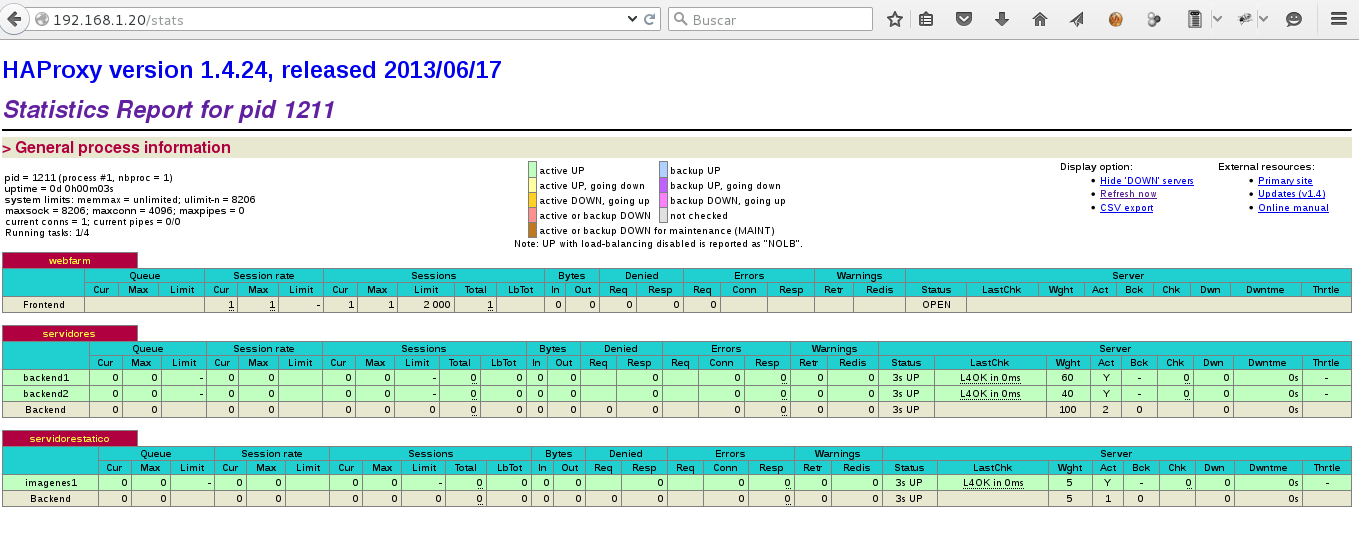
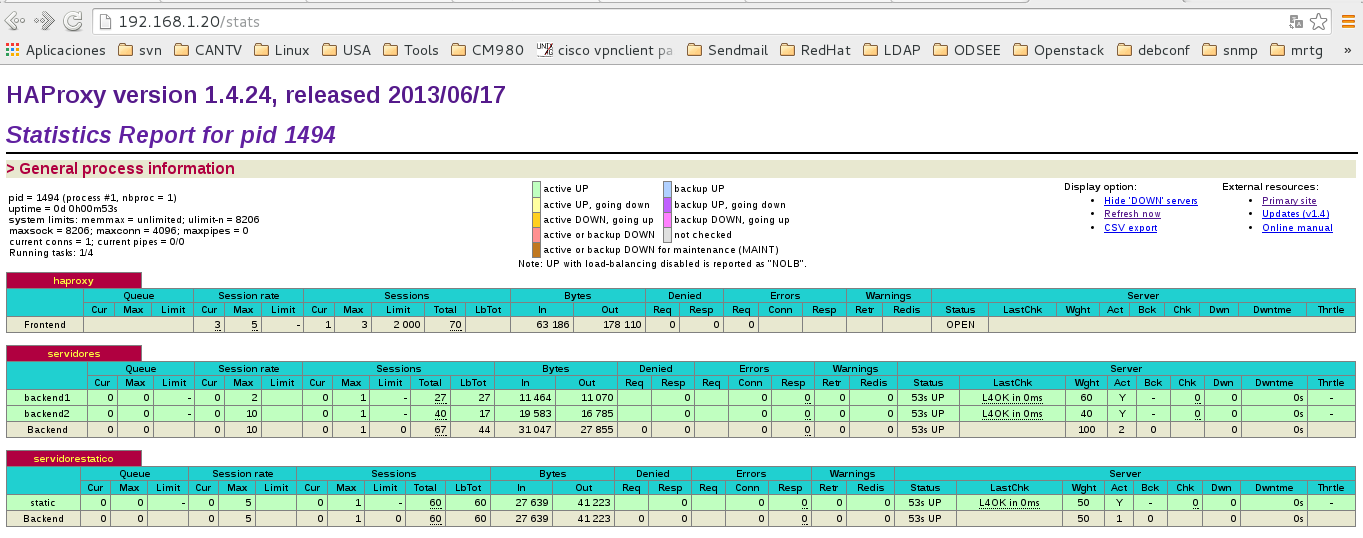
Actualizar

diff --git a/README.md b/README.md
@@ -2,9 +2,9 @@
 
 HAProxy es una solución gratuita , muy rápido y fiable que ofrece alta disponibilidad , balanceo de carga y el proxy para TCP y aplicaciones basadas en HTTP. Es especialmente adecuado para los sitios web de muy alto tráfico y las más visitadas del mundo. Con los años se ha convertido en el software balanceador de carga favorito de las distribuciones GNU/Linux, ahora se incluye con la mayoría de las distribuciones de Linux y con frecuencia se despliega por defecto en plataformas en la nube. HAProxy no se hace publicidad, sólo se sabe cuando los administradores informan de ella :-)
 
-### Principales características
+#### Principales características
 
-Cada versión trae su conjunto de características nuevas más las caracteristicas anteriores. La compatibilidad es un aspecto muy importante de HAProxy, incluso la ultima versión estable (1.5) es capaz de funcionar con configuraciones hechas para la versión 1.0 hace de 13 años. Las características más diferenciadoras de cada versión se enumeran a continuación:
+Cada versión trae su conjunto de características nuevas más las características anteriores. La compatibilidad es un aspecto muy importante de HAProxy, incluso la ultima versión estable (1.5) es capaz de funcionar con configuraciones hechas para la versión 1.0 hace de 13 años. Las características más diferenciadoras de cada versión se enumeran a continuación:
 
 - **versión 1.5**, lanzado en el 2014, esta versión amplía aún más la 1.4 con 4 años de duro trabajo: soporte SSL nativa en ambos lados con SNI/NPN/ALPN y OCSP, IPv6 y UNIX sockets están soportados, HTTP completa keep-alive para un mejor apoyo de NTLM y la mejora de la eficiencia en las granjas estáticas, HTTP/1.1 compression (deflate, gzip) para ahorrar ancho de banda, PROXY protocol versión 1 y 2 en ambos lados, data sampling sobre todo en la petición o respuesta, incluyendo la carga útil, las ACL pueden utilizar cualquier método de emparejamiento con cualquier mapas de muestra de entrada y ACL dinámico, actualizables con la ayuda del CLI stick-tables para realizar un seguimiento de la actividad en cualquier formato personalizado muestra de entrada para los registros de identificador único, cabecera de reescritura y redirecciones, mejora de controles de salud (SSL, script TCP, agentes de prueba, ... ), mucho más escalable la configuración, es compatible con cientos de miles de backends y certificados sin sudar.
 - **versión 1.4**, lanzado en 2010, esta versión trae nuevas características sobre la 1.3, fueron muy esperados: Client-side keep-alive para reducir el tiempo de cargar las páginas pesadas para los clientes sobre la red, TCP speedups para ayudar al stack de TCP ahorrar unos cuantos paquetes por conexión, response buffering para un número aún menor de conexiones simultáneas en los servidores, soporte para el protocolo RDP con la rigidez del servidor y el filtrado de usuario, source-based stickiness para adjuntar una dirección de origen a un servidor, un medio mucho mejor las estadísticas interfaz de informes de toneladas de información útil, controles de salud más detallados informes ed estados precisas y respuestas en las estadísticas y de los registros, la salud provocada por el tráfico de ayunar-falla un servidor por encima de un umbral de error determinado, soporte para la autenticación HTTP para cualquier solicitud incluyendo las estadísticas, con el apoyo de cifrado de la contraseña, gestión de servidor desde la línea de comandos para activar / desactivar y cambiar el peso de un servidor sin necesidad de reiniciar la persistencia haproxy, basada en ACL para mantener o desactivar la persistencia basada en ACL, sin tener en cuenta el estado del servidor, ingrese analizador para generar informes rápidos de los registros analizados en 1 Gbyte / s,
@@ -33,13 +33,13 @@ Si [HAProxy](http://www.haproxy.org/ "http://www.haproxy.org/") detecta la caíd
 
 Con [HAProxy](http://www.haproxy.org/ "http://www.haproxy.org/") vamos a  distribuir las peticiones de los clientes de forma equitativa entre distintos servidores de "backend" (termino muy utilizado por HAProxy). Un   servidor backend: puede ser servidor web, que reciba las solicitudes del frontend (termino muy utilizado por HAProxy). Un frontend se le llama al [HAProxy](http://www.haproxy.org/ "http://www.haproxy.org/") que atendera las solicitudes de los clientes y se las envia a los backends.
 
-Con [HAProxy](http://www.haproxy.org/ "http://www.haproxy.org/") puede detectar la carga de los backends y distribuir las peticiones de forma equitativa para evitar sobrecarga. Tambien nosotros le podemos indicar cual sera el porcetange de carga para los backends.Este mecanismo tambien se utiliza para identificar si un backend esta fuera de servicio y de esta forma no se le envia peticiones.
+Con [HAProxy](http://www.haproxy.org/ "http://www.haproxy.org/") puede detectar la carga de los backends y distribuir las peticiones de forma equitativa para evitar sobrecarga. También nosotros le podemos indicar cual sera el porcentaje de carga para los backends. Este mecanismo también se utiliza para identificar si un backend esta fuera de servicio y de esta forma no se le envía peticiones.
 
-Una forma de balancear carga de forma muy simple y economica es Roundrobin por DNS, pero esto no esta bien cuando se tiene altas cargas de peticiones y se requiere una minima perdida de peticiones, es decir, un balanceador puede tener en cuenta la carga de cada backend y distribuir las peticiones según la carga que tenga el backend, mientras que al Roundrobin por DNS no tiene en cuenta la carga de los backends y por lo tanto se envian paquetes que comienzan a producir time outs y lentitud. Además, si un backend queda inoperativo el Roundrobin por DNS no sera capaz de identificar esto y se produciran nuevamente perdidad de paquetes time outs y lentitud.
+Una forma de balancear carga de forma muy simple y económica es Roundrobin por DNS, pero esto no esta bien cuando se tiene altas cargas de peticiones y se requiere una mínima perdida de peticiones, es decir, un balanceador puede tener en cuenta la carga de cada backend y distribuir las peticiones según la carga que tenga el backend, mientras que al Roundrobin por DNS no tiene en cuenta la carga de los backends y por lo tanto se envían paquetes que comienzan a producir time outs y lentitud. Además, si un backend queda inoperativo el Roundrobin por DNS no sera capaz de identificar esto y se producirán nuevamente perdida de paquetes time outs y lentitud.
 
 Algo que gusta mucho de [HAProxy](http://www.haproxy.org/ "http://www.haproxy.org/"), pueden mantener las sesiones de los usuarios, de forma que un usuario que inicia sesión en un backend "A" siempre sea dirigido por el [HAProxy](http://www.haproxy.org/ "http://www.haproxy.org/") al mismo backend "A". El Roundrobin por DNS no es capaz de mantener sesiones, por lo que siempre el  usuario pierde la sesión.
 
-En este laboratorio solo vamos a instalar un solo frontend [HAProxy](http://www.haproxy.org/ "http://www.haproxy.org/"), que haga balanceo de carga y distribuya las solicitudes de HTTP hacia dos backends, que verifique si alguno de los backends esta inoperativo y que por supuesto puede identificar las sesiones de los usuarios y sean redireccionados nuevamente al backend que le esta atendiendo dicha sesion.
+En este laboratorio solo vamos a instalar un solo frontend [HAProxy](http://www.haproxy.org/ "http://www.haproxy.org/"), que haga balanceo de carga y distribuya las solicitudes de HTTP hacia dos backends, que verifique si alguno de los backends esta inoperativo y que por supuesto puede identificar las sesiones de los usuarios y sean redireccionados nuevamente al backend que le esta atendiendo dicha sesión.
 
 ![Texto alternativo](images/topologia.png "Topología de la red de pruebas")
 
@@ -49,16 +49,16 @@ En resumen esto es lo que vamos a tener con [HAProxy](http://www.haproxy.org/ "h
 - Identificación sesiones, para conservar las sesiones.
 - Algoritmos de balanceo, para elegir entre balance Roundrobin, por peso, por origen, etc.
 - Escalabilidad, para que sea fácil adicionar más backend.
-- ACLs por tipo de contenido, nombre de dominio, etc., para ﬁltrar contenido, o dirigir las peticiones por contenido estático a un servidor en particular, etc.
+- ACLs por tipo de contenido, nombre de dominio, etc., para filtrar contenido, o dirigir las peticiones por contenido estático a un servidor en particular, etc.
  
-## Como estara configurado el laboratorio
+## Como estará configurado el laboratorio
 
-192.168.1.20 -- Ubuntu 14.04.4, haproxy -- HAProxy 1.4
-192.168.1.21 -- Ubuntu 14.04.4, backend1 -- apache2, php5
-192.168.1.22 -- Ubuntu 14.04.4, backend2 -- apache2, php5
-192.168.1.23 -- Ubuntu 14.04.4, backend3 -- apache2, php5
+- 192.168.1.20 -- Ubuntu 14.04.4, haproxy -- HAProxy 1.4
+- 192.168.1.21 -- Ubuntu 14.04.4, backend1 -- apache2, php5
+- 192.168.1.22 -- Ubuntu 14.04.4, backend2 -- apache2, php5
+- 192.168.1.23 -- Ubuntu 14.04.4, backend3 -- apache2
 
-**Configuración del servidor HAProxy**
+#### Configuración del servidor HAProxy
 
 Configuremos la interfaz de red (Importante que este como adaptador puente)
 ```
@@ -128,7 +128,7 @@ Editamos el archivo de configuración
 		stats enable
 		stats uri /stats
 		stats realm HAProxy\ Statistics
-		stats auth admin:Venezuela21  #Coloca aqui el usuario y clave que quieras
+		stats auth admin:Venezuela21  #Coloca aquí el usuario y clave que quieras
 
 	frontend haproxy
 		bind 192.168.1.20:80
@@ -147,12 +147,12 @@ Editamos el archivo de configuración
 		server backend1 192.168.1.21:80 weight 60 cookie A check source 192.168.1.20 inter 10000
 		server backend2 192.168.1.22:80 weight 45 cookie B check source 192.168.1.20 inter 10000
 
-	backend imagenes
+	backend servidorestaticos
 		balance roundrobin
 		option httpclose
 		option forwardfor
 		# option httpchk HEAD /index.php HTTP/1.0
-		server servidorestatico 192.168.1.23:80 weight 50 check source 192.168.1.20 inter 10000
+		server static 192.168.1.23:80 weight 50 check source 192.168.1.20 inter 10000
 
 ```
 
@@ -165,7 +165,7 @@ Vamos al navegador de nuestro HOST y colocamos "192.168.1.20/stats" coloca el us
 
 ![Texto alternativo](images/Selección_001.png "haproxy stats")
 
-**Configuración del servidor backend1**
+####  Configuración del servidor backend1
 
 Configuremos la interfaz de red (Importante que este como adaptador puente)
 ```
@@ -199,10 +199,10 @@ Luego procedemos a instalar los paquetes requeridos
 
 Vamos al navegador de nuestro HOST y colocamos "192.168.1.21" ya sabes que debe ver el "work ...!!!"
 
-![Texto alternativo](images/Selección_001.png "haproxy stats")
+![Texto alternativo](images/apache.png "haproxy stats")
 
 
-**Configuración del servidor backend2**
+#### Configuración del servidor backend2
 
 Configuremos la interfaz de red (Importante que este como adaptador puente)
 ```
@@ -236,7 +236,7 @@ Luego procedemos a instalar los paquetes requeridos
 
 Vamos al navegador de nuestro HOST y colocamos "192.168.1.22" ya sabes que debe ver el "work ...!!!"
 
-**Configuración del servidor backend3**
+#### Configuración del servidor backend3
 
 Configuremos la interfaz de red (Importante que este como adaptador puente)
 ```
@@ -270,10 +270,12 @@ Luego procedemos a instalar los paquetes requeridos
 
 Vamos al navegador de nuestro HOST y colocamos "192.168.1.22" ya sabes que debe ver el "work ...!!!"
 
-**Pruebas de balanceo y failover**
+![Texto alternativo](images/apache.png "haproxy stats")
+
+#### Pruebas de balanceo y failover
 
 Probemos el balanceo
-En los servidores backend1 y backend2 vamos a crear el siguiete script PHP.
+En los servidores backend1 y backend2 vamos a crear el siguiente script PHP.
 ```
 	# vi /var/www/html/prueba.php
 
@@ -286,32 +288,32 @@ En los servidores backend1 y backend2 vamos a crear el siguiete script PHP.
 ```
 
 Ahora desde nuestro HOST vamos a utilizar al comando ``curl`` apuntando hacia el servidor haproxy y este debe balancear hacia los servidores backends y con la ayuda del script PHP iremos identificando y analizando. lo ejecutamos varias veces.
-Tambien desde nuestro HOST en un navegador se puede colocar http://192.168.1.20/prueba.php y se pulsa F5 varias veces
+También desde nuestro HOST en un navegador se puede colocar http://192.168.1.20/prueba.php y se pulsa F5 varias veces
 ```
-# curl http://192.168.1.20/prueba.php
-Server IP: 192.168.1.21
-Client IP: 192.168.1.20
-X-Forwarded-for: 192.168.1.46
+	# curl http://192.168.1.20/prueba.php
+	Server IP: 192.168.1.21
+	Client IP: 192.168.1.20
+	X-Forwarded-for: 192.168.1.46
 
-# curl http://192.168.1.20/prueba.php
-Server IP: 192.168.1.22
-Client IP: 192.168.1.20
-X-Forwarded-for: 192.168.1.46
+	# curl http://192.168.1.20/prueba.php
+	Server IP: 192.168.1.22
+	Client IP: 192.168.1.20
+	X-Forwarded-for: 192.168.1.46
 
-# curl http://192.168.1.20/prueba.php
-Server IP: 192.168.1.21
-Client IP: 192.168.1.20
-X-Forwarded-for: 192.168.1.46
+	# curl http://192.168.1.20/prueba.php
+	Server IP: 192.168.1.21
+	Client IP: 192.168.1.20
+	X-Forwarded-for: 192.168.1.46
 
-# curl http://192.168.1.20/prueba.php
-Server IP: 192.168.1.21
-Client IP: 192.168.1.20
-X-Forwarded-for: 192.168.1.46
+	# curl http://192.168.1.20/prueba.php
+	Server IP: 192.168.1.21
+	Client IP: 192.168.1.20
+	X-Forwarded-for: 192.168.1.46
 
-# curl http://192.168.1.20/prueba.php
-Server IP: 192.168.1.22
-Client IP: 192.168.1.20
-X-Forwarded-for: 192.168.1.46
+	# curl http://192.168.1.20/prueba.php
+	Server IP: 192.168.1.22
+	Client IP: 192.168.1.20
+	X-Forwarded-for: 192.168.1.46
 
 ```
 
@@ -325,29 +327,29 @@ En el backend1 detenemos el servicio de apache.
 
 Ejecuten el comando ``curl`` nuevamente y varias veces desde su HOST.
 ```
-# curl http://192.168.1.20/prueba.php
-Server IP: 192.168.1.22
-Client IP: 192.168.1.20
-X-Forwarded-for: 192.168.1.46
+	# curl http://192.168.1.20/prueba.php
+	Server IP: 192.168.1.22
+	Client IP: 192.168.1.20
+	X-Forwarded-for: 192.168.1.46
 
-# curl http://192.168.1.20/prueba.php
-Server IP: 192.168.1.22
-Client IP: 192.168.1.20
-X-Forwarded-for: 192.168.1.46
+	# curl http://192.168.1.20/prueba.php
+	Server IP: 192.168.1.22
+	Client IP: 192.168.1.20
+	X-Forwarded-for: 192.168.1.46
 
-# curl http://192.168.1.20/prueba.php
-Server IP: 192.168.1.22
-Client IP: 192.168.1.20
-X-Forwarded-for: 192.168.1.46
+	# curl http://192.168.1.20/prueba.php
+	Server IP: 192.168.1.22
+	Client IP: 192.168.1.20
+	X-Forwarded-for: 192.168.1.46
 
-# curl http://192.168.1.20/prueba.php
-Server IP: 192.168.1.22
-Client IP: 192.168.1.20
-X-Forwarded-for: 192.168.1.46
+	# curl http://192.168.1.20/prueba.php
+	Server IP: 192.168.1.22
+	Client IP: 192.168.1.20
+	X-Forwarded-for: 192.168.1.46
 
 ```
 
-Desde el HOST Tambien desde nuestro HOST en un navegador se puede colocar http://192.168.1.20/stats y deben ver como esta en rojo el backend1
+Desde el HOST También desde nuestro HOST en un navegador se puede colocar http://192.168.1.20/stats y deben ver como esta en rojo el backend1
 
 ![Texto alternativo](images/Selección_003.png "haproxy stats")
 
@@ -356,11 +358,11 @@ Iniciamos nuevamente el servicio en el backend1
 	# /etc/init.d/apache2 start
 ```
 
-**Pruebas de sesiones de usuarios**
+#### Pruebas de sesiones de usuarios
 
-Recuerden que en HAProxy configuaramos que "Cookie Prefix Method" hay otros metodos como "Cookie insert method" pero aqui solo vamos a utilizar "Cookie Prefix Method". Mucho cuidado con esto porque dependiendo si es PHP, ASP, etc. usted debera escoger el metodo de cookie.
+Recuerden que en HAProxy configuramos que "Cookie Prefix Method" hay otros métodos como "Cookie insert method" pero aquí solo vamos a utilizar "Cookie Prefix Method". Mucho cuidado con esto porque dependiendo si es PHP, ASP, etc. usted deberá escoger el método de cookie.
 
-Vamos a crear el siguiente script PHP en los servidores backend1 y backend2, este scrip PHP nos ayuda a crear un simple sesion, luego ver con esa sesion cuantas veces se hacen peticiones y para evidenciar que HAProxy nos direcciona nuevamente para el backend en donde se creo la sesion.
+Vamos a crear el siguiente script PHP en los servidores backend1 y backend2, este scrip PHP nos ayuda a crear un simple sesión, luego ver con esa sesión cuantas veces se hacen peticiones y para evidenciar que HAProxy nos direcciona nuevamente para el backend en donde se creo la sesión.
 ```
 	# vi /var/www/html/sesiones.php
 	<?php
@@ -383,8 +385,8 @@ Vamos a crear el siguiente script PHP en los servidores backend1 y backend2, est
 	?>
 ```
 
-Desde nuestro HOST vamos a utilizar al comando ``curl`` apuntando hacia el servidor haproxy y este debe balancear hacia los servidores backends, luego de establecer una sesion veremos como HAProxy continua enviando nuestras peticiones hacia el backend en donde se creo la sesion. Con la ayuda del script PHP iremos identificando y analizando.
-Tambien desde nuestro HOST en un navegador se puede colocar http://192.168.1.20/sesiones.php y se pulsa F5 varias veces
+Desde nuestro HOST vamos a utilizar al comando ``curl`` apuntando hacia el servidor haproxy y este debe balancear hacia los servidores backends, luego de establecer una sesión veremos como HAProxy continua enviando nuestras peticiones hacia el backend en donde se creo la sesión. Con la ayuda del script PHP iremos identificando y analizando.
+También desde nuestro HOST en un navegador se puede colocar http://192.168.1.20/sesiones.php y se pulsa F5 varias veces
 Ejecutemos una primera vez
 ```
 	# curl -i http://192.168.1.20/sesiones.php
@@ -402,7 +404,7 @@ Ejecutemos una primera vez
 	Connection: close
 	Content-Type: text/plain
 
-		Esta es la primera vez que se visita este servidor
+	Esta es la primera vez que se visita este servidor
 	Server IP: 192.168.1.22
 	Client IP: 192.168.1.20
 	X-Forwarded-for: 192.168.1.46
@@ -427,7 +429,7 @@ Capturemos la cookie que es "PHPSESSID=B~csqlvha74lct37e1ekiu3h4h15;" (los valor
 	Connection: close
 	Content-Type: text/plain
 
-		El numero de visitas es : 1
+	El numero de visitas es : 1
 	Server IP: 192.168.1.22
 	Client IP: 192.168.1.20
 	X-Forwarded-for: 192.168.1.46
@@ -438,7 +440,7 @@ Capturemos la cookie que es "PHPSESSID=B~csqlvha74lct37e1ekiu3h4h15;" (los valor
 
 ```
 
-Ejecutelo tantas veces como usted quiera y vea como pasandole la misma cookie el script PHP le va indicando el numero de visitas
+Ejecútelo tantas veces como usted quiera y vea como pasándole la misma cookie el script PHP le va indicando el numero de visitas
 ```
 	# curl -i http://192.168.1.20/sesiones.php --cookie "PHPSESSID=B~csqlvha74lct37e1ekiu3h4h15;"
 
@@ -499,10 +501,10 @@ Ejecutamos nuevamente el script PHP pero ahora se le indica que utilice la cooki
 	)
 ```
 
-**Pruebas de Keep-alive**
+#### Pruebas de Keep-alive
 
 En la configuración de HAProxy se utilizó la opción httpclose que añade a la conexion: close header. Esto le dice al cliente (navegador web) cerrar la conexión después de que se reciba una respuesta. Con la configuración de Keep-alive hacemos que HAProxy sea capaz de identificar varias peticiones en un mismo tiempo y pueda re-utilizar la conexión existente.
-Hagamos un ejercicio primero con la cofiguracion de httpclose (ya la tenemos asi)
+Hagamos un ejercicio primero con la configuración de httpclose (ya la tenemos así)
 ```
 	# curl -vI http://192.168.1.20/index.html http://192.168.1.20/index.html
 
@@ -574,7 +576,7 @@ Hagamos un ejercicio primero con la cofiguracion de httpclose (ya la tenemos asi
 
 ```
 
-Ahora en el servidor haproxy y modificamos en la seccion de "backend servidores" lo siguiente:
+Ahora en el servidor haproxy y modificamos en la sección de "backend servidores" lo siguiente:
 ```
 	# vi /etc/haproxy/haproxy.cfg
 		# Documentamos esta linea y agregamos las otras dos        
@@ -649,29 +651,29 @@ Realicemos nuevamente la prueba y veamos como ahora reutiliza la conexión, anal
 	>
 ```
 
-**Pruebas de URL staticas**
+#### Pruebas de URL Estáticas
 
-Ya teniamos configurado en el servidor de haproxy un ACL para que las solicitudes de los archivos del tipo .gif .png .png sean buscados en un backend3. en el archivo /etc/haproxy/haproxy.cfg
+Ya teníamos configurado en el servidor de haproxy un ACL para que las solicitudes de los archivos del tipo .gif .png .png sean buscados en un backend3. en el archivo /etc/haproxy/haproxy.cfg
 ```
 		# ACL que permite las siguiente estensiones en la url_static
 		acl url_static path_end	.gif .png .png
 		# Se indica que backend atendera las url_static
 		use_backend servidorestatico if url_static
 
-	backend imagenes
+	backend servidorestatico
 		balance roundrobin
 		option httpclose
 		option forwardfor
 		# option httpchk HEAD /index.php HTTP/1.0
-		server servidorestatico 192.168.1.23:80 weight 50 check source 192.168.1.20 inter 10000
+		server static 192.168.1.23:80 weight 50 check source 192.168.1.20 inter 10000
 ```
-En el servidor que atendera las peticiones estaticas, el backend3 descargue una imagen en "/var/www/html" con el nombre de logo-med.png o puede hacer esto
+En el servidor que atenderá las peticiones estáticas, el backend3 descargue una imagen en "/var/www/html" con el nombre de logo-med.png o puede hacer esto
 ```
 	# cd /var/www/html
 	# wget http://www.haproxy.org/img/logo-med.png
 ```
 
-Ahora en los servidores backend1 y backend3 vamos a crear un simple archivo HTML, pero identifiquelo con el nombre del servidor en donde lo creo.
+Ahora en los servidores backend1 y backend3 vamos a crear un simple archivo HTML, pero identifíquelo con el nombre del servidor en donde lo creo.
 En el backend1
 ```
 	# vi /var/www/html/static.html
@@ -699,7 +701,7 @@ Detenga el adaptador de red en backend3 y vuelva a probar http://192.168.1.20/st
 ![Texto alternativo](images/Selección_010.png "haproxy stats")
 
 
-**Ver los log y el tcpdump**
+#### Ver los log y el tcpdump
 
 Para tener una visión mas clara de todo lo que esta pasando y sobre todo para la resolución de fallas puede ver los log de apache y utilizar tcpdump
 ```
